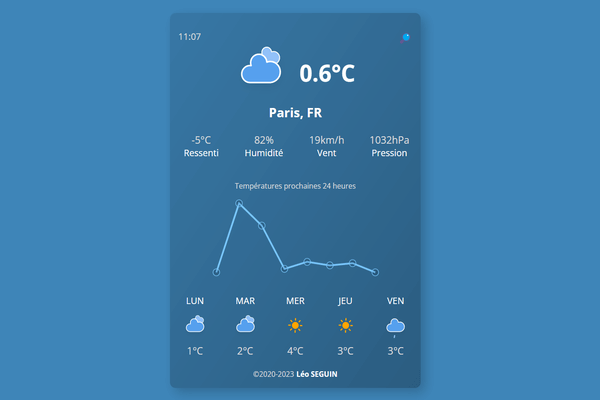
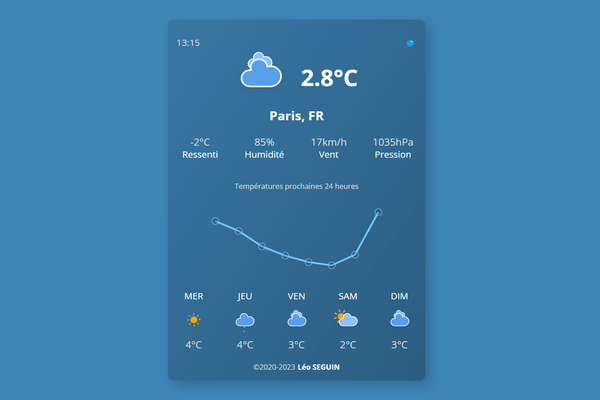
accessibility improvement

diff --git a/src/js/script.min.js b/src/js/script.min.js
@@ -1,1 +1,1 @@
-function requestApi(e){apiCurrent=`https://api.openweathermap.org/data/2.5/weather?q=${e}&units=metric&appid=${key}`,apiForecast=`https://api.openweathermap.org/data/2.5/forecast?q=${e}&units=metric&appid=${key}`,fetchData()}function onSuccess(e){let{latitude:t,longitude:s}=e.coords;apiCurrent=`https://api.openweathermap.org/data/2.5/weather?lat=${t}&lon=${s}&units=metric&appid=${key}`,apiForecast=`https://api.openweathermap.org/data/2.5/forecast?lat=${t}&lon=${s}&units=metric&appid=${key}`,fetchData()}function onError(){infoTxt.style.display="none",alert("La localisation de l'appareil n'est pas activée...")}function fetchData(){fetch(apiCurrent).then(e=>e.json()).then(e=>weatherDetailsCurrent(e)).catch(()=>{infoTxt.style.display="none",alert("Ville non reconnue, vérifiez l'orthographe et écrivez le nom complet de la ville...")})}function weatherDetailsCurrent(e){let{name:t}=e,{country:s}=e.sys,{id:i}=e.weather[0],{temp:n,feels_like:r,humidity:o,pressure:c}=e.main,{speed:a}=e.wind,l=new Date;offset=parseInt(e.timezone)/60,heure=(heureDate=new Date(l.getTime()+6e4*(offset+l.getTimezoneOffset()))).toLocaleTimeString("fr-FR").slice(0,-3),800==i?(heure.startsWith("1")||heure.startsWith("06")||heure.startsWith("07")||heure.startsWith("08")||heure.startsWith("09")?img.src="icons/sun.svg":img.src="icons/sunnight.svg",document.body.style.background="#1c95ec",metaTheme.content="#1c95ec"):i>=200&&i<=232?(img.src="icons/thunder.svg",document.body.style.background="#2c3c47",metaTheme.content="#2c3c47"):i>=600&&i<=622?(img.src="icons/snow.svg",document.body.style.background="#83939e",metaTheme.content="#83939e"):i>=701&&i<=781?(heure.startsWith("1")||heure.startsWith("06")||heure.startsWith("07")||heure.startsWith("08")||heure.startsWith("09")?img.src="icons/haze.svg":img.src="icons/hazenight.svg",document.body.style.background="#88ccfc",metaTheme.content="#88ccfc"):801==i?(heure.startsWith("1")||heure.startsWith("06")||heure.startsWith("07")||heure.startsWith("08")||heure.startsWith("09")?img.src="icons/fewclouds.svg":img.src="icons/fewcloudsnight.svg",document.body.style.background="#41adfa",metaTheme.content="#41adfa"):i>=802&&i<=804?(img.src="icons/clouds.svg",document.body.style.background="#3e85b8",metaTheme.content="#3e85b8"):i>=501&&i<=531?(img.src="icons/shower.svg",document.body.style.background="#2f5069",metaTheme.content="#2f5069"):(i>=300&&i<=321||500==i)&&(img.src="icons/rain.svg",document.body.style.background="#386e94",metaTheme.content="#386e94"),infoTxt.style.display="none",inputField.value="",wrapper.classList.add("active"),back.style.display="inline",document.querySelector(".temp span").innerText=`${n.toFixed(1)}°C`,document.querySelector(".location span").innerText=`${t}, ${s}`,document.querySelector(".feels span").innerText=`${Math.floor(r)}°C`,document.querySelector(".humidity span").innerText=`${o}%`,document.querySelector(".wind span").innerText=`${Math.round(3.6*a)}km/h`,document.querySelector(".pressure span").innerText=`${c}hPa`,document.querySelector("#heure").innerText=heure,fetch(apiForecast).then(e=>e.json()).then(e=>weatherDetailsForecast(e))}function weatherDetailsForecast(e){let t=[],s=[];for(let i=0;i<e.list.length;i++){let n=e.list[i].dt_txt.substring(11),r=e.list[i].main.temp,o=e.list[i].weather[0].id;n.indexOf("12:00:00")||(t.push(o),s.push(r))}let i=e.list[7].dt_txt,n=e.list[15].dt_txt,r=e.list[23].dt_txt,o=e.list[31].dt_txt,c=e.list[39].dt_txt;800==t[0]?img2.src="icons/sun.svg":t[0]>=200&&t[0]<=232?img2.src="icons/thunder.svg":t[0]>=600&&t[0]<=622?img2.src="icons/snow.svg":t[0]>=701&&t[0]<=781?img2.src="icons/haze.svg":801==t[0]?img2.src="icons/fewclouds.svg":t[0]>=802&&t[0]<=804?img2.src="icons/clouds.svg":t[0]>=501&&t[0]<=531?img2.src="icons/shower.svg":(t[0]>=300&&t[0]<=321||500==t[0])&&(img2.src="icons/rain.svg"),800==t[1]?img3.src="icons/sun.svg":t[1]>=200&&t[1]<=232?img3.src="icons/thunder.svg":t[1]>=600&&t[1]<=622?img3.src="icons/snow.svg":t[1]>=701&&t[1]<=781?img3.src="icons/haze.svg":801==t[1]?img3.src="icons/fewclouds.svg":t[1]>=802&&t[1]<=804?img3.src="icons/clouds.svg":t[1]>=501&&t[1]<=531?img3.src="icons/shower.svg":(t[1]>=300&&t[1]<=321||500==t[1])&&(img3.src="icons/rain.svg"),800==t[2]?img4.src="icons/sun.svg":t[2]>=200&&t[2]<=232?img4.src="icons/thunder.svg":t[2]>=600&&t[2]<=622?img4.src="icons/snow.svg":t[2]>=701&&t[2]<=781?img4.src="icons/haze.svg":801==t[2]?img4.src="icons/fewclouds.svg":t[2]>=802&&t[2]<=804?img4.src="icons/clouds.svg":t[2]>=501&&t[2]<=531?img4.src="icons/shower.svg":(t[2]>=300&&t[2]<=321||500==t[2])&&(img4.src="icons/rain.svg"),800==t[3]?img5.src="icons/sun.svg":t[3]>=200&&t[3]<=232?img5.src="icons/thunder.svg":t[3]>=600&&t[3]<=622?img5.src="icons/snow.svg":t[3]>=701&&t[3]<=781?img5.src="icons/haze.svg":801==t[3]?img5.src="icons/fewclouds.svg":t[3]>=802&&t[3]<=804?img5.src="icons/clouds.svg":t[3]>=501&&t[3]<=531?img5.src="icons/shower.svg":(t[3]>=300&&t[3]<=321||500==t[3])&&(img5.src="icons/rain.svg"),800==t[4]?img6.src="icons/sun.svg":t[4]>=200&&t[4]<=232?img6.src="icons/thunder.svg":t[4]>=600&&t[4]<=622?img6.src="icons/snow.svg":t[4]>=701&&t[4]<=781?img6.src="icons/haze.svg":801==t[4]?img6.src="icons/fewclouds.svg":t[4]>=802&&t[4]<=804?img6.src="icons/clouds.svg":t[4]>=501&&t[4]<=531?img6.src="icons/shower.svg":(t[4]>=300&&t[4]<=321||500==t[4])&&(img6.src="icons/rain.svg"),weatherPart.querySelector(".temp .numb2").innerText=Math.floor(s[0]),weatherPart.querySelector(".temp .numb3").innerText=Math.floor(s[1]),weatherPart.querySelector(".temp .numb4").innerText=Math.floor(s[2]),weatherPart.querySelector(".temp .numb5").innerText=Math.floor(s[3]),weatherPart.querySelector(".temp .numb6").innerText=Math.floor(s[4]);let a=["DIM","LUN","MAR","MER","JEU","VEN","SAM"],l=new Date(i.slice(0,-9)),m=new Date(n.slice(0,-9)),g=new Date(r.slice(0,-9)),u=new Date(o.slice(0,-9)),d=new Date(c.slice(0,-9)),h=a[l.getDay()],p=a[m.getDay()],y=a[g.getDay()],v=a[u.getDay()],f=a[d.getDay()];document.getElementById("jour2").innerText=h,document.getElementById("jour3").innerText=p,document.getElementById("jour4").innerText=y,document.getElementById("jour5").innerText=v,document.getElementById("jour6").innerText=f;let w=[e.list[0].main.temp,e.list[1].main.temp,e.list[2].main.temp,e.list[3].main.temp,e.list[4].main.temp,e.list[5].main.temp,e.list[6].main.temp,e.list[7].main.temp],b=document.getElementById("chart").getContext("2d");new Chart(b,{type:"line",data:{labels:[e.list[0].dt_txt.substring(11).slice(0,-3),e.list[1].dt_txt.substring(11).slice(0,-3),e.list[2].dt_txt.substring(11).slice(0,-3),e.list[3].dt_txt.substring(11).slice(0,-3),e.list[4].dt_txt.substring(11).slice(0,-3),e.list[5].dt_txt.substring(11).slice(0,-3),e.list[6].dt_txt.substring(11).slice(0,-3),e.list[7].dt_txt.substring(11).slice(0,-3)],datasets:[{yAxisID:"A",label:"Température",data:w,borderColor:"#7ac8ff",pointRadius:6}]},options:{plugins:{legend:{display:!1}},responsive:!0,scales:{x:{ticks:{display:!1},grid:{display:!1},border:{display:!1}},A:{type:"linear",position:"left",ticks:{display:!1},grid:{display:!1},border:{display:!1}}}}}),Chart.defaults.color="#dddddd"}"serviceWorker"in navigator&&navigator.serviceWorker.register("sw.js");const key="YOUR API KEY",wrapper=document.querySelector(".wrapper"),inputPart=document.querySelector(".input-part"),infoTxt=document.querySelector(".info-txt"),inputField=document.querySelector("input"),locationBtn=document.querySelector("#geolocalisation"),weatherPart=document.querySelector(".weather-part"),metaTheme=document.getElementById("themecolor"),img=document.getElementById("img"),img2=document.getElementById("img2"),img3=document.getElementById("img3"),img4=document.getElementById("img4"),img5=document.getElementById("img5"),img6=document.getElementById("img6"),back=document.getElementById("retour");back.style.display="none",inputField.addEventListener("keydown",e=>{"Enter"==e.key&&(inputField.value.trim()?(infoTxt.style.display="block",requestApi(inputField.value.trim())):alert("Veuillez renseigner une ville..."))}),locationBtn.addEventListener("click",()=>{navigator.geolocation&&navigator.geolocation.getCurrentPosition(onSuccess,onError),infoTxt.style.display="block"}),back.addEventListener("click",()=>{location.reload()});
+function requestApi(e){apiCurrent=`https://api.openweathermap.org/data/2.5/weather?q=${e}&units=metric&appid=${key}`,apiForecast=`https://api.openweathermap.org/data/2.5/forecast?q=${e}&units=metric&appid=${key}`,fetchData()}function onSuccess(e){let{latitude:t,longitude:s}=e.coords;apiCurrent=`https://api.openweathermap.org/data/2.5/weather?lat=${t}&lon=${s}&units=metric&appid=${key}`,apiForecast=`https://api.openweathermap.org/data/2.5/forecast?lat=${t}&lon=${s}&units=metric&appid=${key}`,fetchData()}function onError(){infoTxt.style.display="none",alert("La localisation de l'appareil n'est pas activée...")}function fetchData(){fetch(apiCurrent).then(e=>e.json()).then(e=>weatherDetailsCurrent(e)).catch(()=>{infoTxt.style.display="none",alert("Ville non reconnue, vérifiez l'orthographe et écrivez le nom complet de la ville...")})}function weatherDetailsCurrent(e){let{name:t}=e,{country:s}=e.sys,{id:i}=e.weather[0],{temp:n,feels_like:r,humidity:o,pressure:c}=e.main,{speed:a}=e.wind,l=new Date;offset=parseInt(e.timezone)/60,heure=(heureDate=new Date(l.getTime()+6e4*(offset+l.getTimezoneOffset()))).toLocaleTimeString("fr-FR").slice(0,-3),800==i?(heure.startsWith("1")||heure.startsWith("06")||heure.startsWith("07")||heure.startsWith("08")||heure.startsWith("09")?img.src="icons/sun.svg":img.src="icons/sunnight.svg",document.body.style.background="#1c95ec",metaTheme.content="#1c95ec"):i>=200&&i<=232?(img.src="icons/thunder.svg",document.body.style.background="#2c3c47",metaTheme.content="#2c3c47"):i>=600&&i<=622?(img.src="icons/snow.svg",document.body.style.background="#83939e",metaTheme.content="#83939e"):i>=701&&i<=781?(heure.startsWith("1")||heure.startsWith("06")||heure.startsWith("07")||heure.startsWith("08")||heure.startsWith("09")?img.src="icons/haze.svg":img.src="icons/hazenight.svg",document.body.style.background="#63baf7",metaTheme.content="#63baf7"):801==i?(heure.startsWith("1")||heure.startsWith("06")||heure.startsWith("07")||heure.startsWith("08")||heure.startsWith("09")?img.src="icons/fewclouds.svg":img.src="icons/fewcloudsnight.svg",document.body.style.background="#41adfa",metaTheme.content="#41adfa"):i>=802&&i<=804?(img.src="icons/clouds.svg",document.body.style.background="#3e85b8",metaTheme.content="#3e85b8"):i>=501&&i<=531?(img.src="icons/shower.svg",document.body.style.background="#2f5069",metaTheme.content="#2f5069"):(i>=300&&i<=321||500==i)&&(img.src="icons/rain.svg",document.body.style.background="#386e94",metaTheme.content="#386e94"),infoTxt.style.display="none",inputField.value="",wrapper.classList.add("active"),back.style.display="inline",document.querySelector(".temp span").innerText=`${n.toFixed(1)}°C`,document.querySelector(".location span").innerText=`${t}, ${s}`,document.querySelector(".feels span").innerText=`${Math.floor(r)}°C`,document.querySelector(".humidity span").innerText=`${o}%`,document.querySelector(".wind span").innerText=`${Math.round(3.6*a)}km/h`,document.querySelector(".pressure span").innerText=`${c}hPa`,document.querySelector("#heure").innerText=heure,fetch(apiForecast).then(e=>e.json()).then(e=>weatherDetailsForecast(e))}function weatherDetailsForecast(e){let t=[],s=[];for(let i=0;i<e.list.length;i++){let n=e.list[i].dt_txt.substring(11),r=e.list[i].main.temp,o=e.list[i].weather[0].id;n.indexOf("12:00:00")||(t.push(o),s.push(r))}let i=e.list[7].dt_txt,n=e.list[15].dt_txt,r=e.list[23].dt_txt,o=e.list[31].dt_txt,c=e.list[39].dt_txt;800==t[0]?img2.src="icons/sun.svg":t[0]>=200&&t[0]<=232?img2.src="icons/thunder.svg":t[0]>=600&&t[0]<=622?img2.src="icons/snow.svg":t[0]>=701&&t[0]<=781?img2.src="icons/haze.svg":801==t[0]?img2.src="icons/fewclouds.svg":t[0]>=802&&t[0]<=804?img2.src="icons/clouds.svg":t[0]>=501&&t[0]<=531?img2.src="icons/shower.svg":(t[0]>=300&&t[0]<=321||500==t[0])&&(img2.src="icons/rain.svg"),800==t[1]?img3.src="icons/sun.svg":t[1]>=200&&t[1]<=232?img3.src="icons/thunder.svg":t[1]>=600&&t[1]<=622?img3.src="icons/snow.svg":t[1]>=701&&t[1]<=781?img3.src="icons/haze.svg":801==t[1]?img3.src="icons/fewclouds.svg":t[1]>=802&&t[1]<=804?img3.src="icons/clouds.svg":t[1]>=501&&t[1]<=531?img3.src="icons/shower.svg":(t[1]>=300&&t[1]<=321||500==t[1])&&(img3.src="icons/rain.svg"),800==t[2]?img4.src="icons/sun.svg":t[2]>=200&&t[2]<=232?img4.src="icons/thunder.svg":t[2]>=600&&t[2]<=622?img4.src="icons/snow.svg":t[2]>=701&&t[2]<=781?img4.src="icons/haze.svg":801==t[2]?img4.src="icons/fewclouds.svg":t[2]>=802&&t[2]<=804?img4.src="icons/clouds.svg":t[2]>=501&&t[2]<=531?img4.src="icons/shower.svg":(t[2]>=300&&t[2]<=321||500==t[2])&&(img4.src="icons/rain.svg"),800==t[3]?img5.src="icons/sun.svg":t[3]>=200&&t[3]<=232?img5.src="icons/thunder.svg":t[3]>=600&&t[3]<=622?img5.src="icons/snow.svg":t[3]>=701&&t[3]<=781?img5.src="icons/haze.svg":801==t[3]?img5.src="icons/fewclouds.svg":t[3]>=802&&t[3]<=804?img5.src="icons/clouds.svg":t[3]>=501&&t[3]<=531?img5.src="icons/shower.svg":(t[3]>=300&&t[3]<=321||500==t[3])&&(img5.src="icons/rain.svg"),800==t[4]?img6.src="icons/sun.svg":t[4]>=200&&t[4]<=232?img6.src="icons/thunder.svg":t[4]>=600&&t[4]<=622?img6.src="icons/snow.svg":t[4]>=701&&t[4]<=781?img6.src="icons/haze.svg":801==t[4]?img6.src="icons/fewclouds.svg":t[4]>=802&&t[4]<=804?img6.src="icons/clouds.svg":t[4]>=501&&t[4]<=531?img6.src="icons/shower.svg":(t[4]>=300&&t[4]<=321||500==t[4])&&(img6.src="icons/rain.svg"),weatherPart.querySelector(".temp .numb2").innerText=Math.floor(s[0]),weatherPart.querySelector(".temp .numb3").innerText=Math.floor(s[1]),weatherPart.querySelector(".temp .numb4").innerText=Math.floor(s[2]),weatherPart.querySelector(".temp .numb5").innerText=Math.floor(s[3]),weatherPart.querySelector(".temp .numb6").innerText=Math.floor(s[4]);let a=["DIM","LUN","MAR","MER","JEU","VEN","SAM"],l=new Date(i.slice(0,-9)),m=new Date(n.slice(0,-9)),g=new Date(r.slice(0,-9)),u=new Date(o.slice(0,-9)),d=new Date(c.slice(0,-9)),h=a[l.getDay()],p=a[m.getDay()],y=a[g.getDay()],v=a[u.getDay()],f=a[d.getDay()];document.getElementById("jour2").innerText=h,document.getElementById("jour3").innerText=p,document.getElementById("jour4").innerText=y,document.getElementById("jour5").innerText=v,document.getElementById("jour6").innerText=f;let w=[e.list[0].main.temp,e.list[1].main.temp,e.list[2].main.temp,e.list[3].main.temp,e.list[4].main.temp,e.list[5].main.temp,e.list[6].main.temp,e.list[7].main.temp],b=document.getElementById("chart").getContext("2d");new Chart(b,{type:"line",data:{labels:[e.list[0].dt_txt.substring(11).slice(0,-3),e.list[1].dt_txt.substring(11).slice(0,-3),e.list[2].dt_txt.substring(11).slice(0,-3),e.list[3].dt_txt.substring(11).slice(0,-3),e.list[4].dt_txt.substring(11).slice(0,-3),e.list[5].dt_txt.substring(11).slice(0,-3),e.list[6].dt_txt.substring(11).slice(0,-3),e.list[7].dt_txt.substring(11).slice(0,-3)],datasets:[{yAxisID:"A",label:"Température",data:w,borderColor:"#7ac8ff",pointRadius:6}]},options:{plugins:{legend:{display:!1}},responsive:!0,scales:{x:{ticks:{display:!1},grid:{display:!1},border:{display:!1}},A:{type:"linear",position:"left",ticks:{display:!1},grid:{display:!1},border:{display:!1}}}}}),Chart.defaults.color="#dddddd"}"serviceWorker"in navigator&&navigator.serviceWorker.register("sw.js");const key="4f2aefee83b0c51e519d5251885f124f",wrapper=document.querySelector(".wrapper"),inputPart=document.querySelector(".input-part"),infoTxt=document.querySelector(".info-txt"),inputField=document.querySelector("input"),locationBtn=document.querySelector("#geolocalisation"),weatherPart=document.querySelector(".weather-part"),metaTheme=document.getElementById("themecolor"),img=document.getElementById("img"),img2=document.getElementById("img2"),img3=document.getElementById("img3"),img4=document.getElementById("img4"),img5=document.getElementById("img5"),img6=document.getElementById("img6"),back=document.getElementById("retour");back.style.display="none",inputField.addEventListener("keydown",e=>{"Enter"==e.key&&(inputField.value.trim()?(infoTxt.style.display="block",requestApi(inputField.value.trim())):alert("Veuillez renseigner une ville..."))}),locationBtn.addEventListener("click",()=>{navigator.geolocation&&navigator.geolocation.getCurrentPosition(onSuccess,onError),infoTxt.style.display="block"});

diff --git a/src/style.min.css b/src/style.min.css
@@ -1,1 +1,1 @@
-.info-txt,.wrapper.active .input-part{display:none}.info-txt,.wrapper{border-radius:10px}.input-part button,.input-part input,html{color:#fff}::placeholder{color:#ddd}@font-face{font-family:OpenSans;font-style:normal;font-weight:400;font-display:swap;src:url(../../assets/fonts/OpenSans.woff2) format('woff2')}@font-face{font-family:OpenSans;font-style:normal;font-weight:700;font-display:swap;src:url(../../assets/fonts/OpenSans-700.woff2) format('woff2')}@font-face{font-family:OpenSans;font-style:italic;font-weight:400;font-display:swap;src:url(../../assets/fonts/OpenSans-italic.woff2) format('woff2')}html{-webkit-tap-highlight-color:transparent;-webkit-user-select:none;user-select:none}*{font-family:OpenSans;box-sizing:border-box}body{background:#1c95ec;display:flex;align-items:center;justify-content:center}.wrapper{margin:30px auto 10px;padding:15px 0;width:450px;background:linear-gradient(to top left,rgba(0,0,0,.3),rgba(0,0,0,.1));box-shadow:8px 8px 20px rgba(0,0,0,.2)}.separator{height:1px;background:#ddd;width:80%;margin:35px auto}.wrapper header{font-size:1.5rem;color:#fff;padding:15px;text-align:right}.column,.info-txt,.input-part input{text-align:center}.wrapper header #heure{color:#ddd;float:left;font-size:1rem}.wrapper header #retour{cursor:pointer;font-size:1.2rem;color:#0070c1}.wrapper.active header{font-size:0}.input-part{margin:5px 30px 30px}.info-txt{font-size:1rem;padding:10px;margin-bottom:15px;color:#fff;height:55px;line-height:38px;display:none;background:rgba(31,169,255,.5)}.column,.copyright,.location,.temp,.wrapper.active .weather-part{display:flex}.input-part input,button{width:100%;height:55px;border:none;font-size:1.1rem;border-radius:10px}.input-part input{padding:0 15px;border:2px solid #ddd;background:0 0;color:#fff}.input-part input:focus{outline:3px solid rgba(0,0,0,.3)}.input-part button{color:#fff;cursor:pointer;background:rgba(0,0,0,.3);transition:.2s}.input-part button:hover{background:rgba(0,0,0,.2)}.wrapper .weather-part{display:none;margin:5px 0 0;align-items:center;justify-content:center;flex-direction:column}.titreGraph{color:#ddd;font-size:.8rem}#img{margin-top:-50px;margin-left:-25px;width:140px;vertical-align:middle}.main-info .temp{font-size:2.5rem;font-weight:700}.location{font-size:1.4rem;font-weight:700;display:flex;align-items:center;justify-content:center;margin:-10px 0 20px}.bottom-details{display:flex;width:100%}.bottom-details .temp{font-weight:400}.graphique{margin:25px auto;text-align:center}#chart{position:relative;z-index:1}.column{width:100%;align-items:center;justify-content:center}.column img{margin:0 0 -10px}.details .temp,.feels span,.humidity span,.pressure span,.wind span{font-size:1.1rem;margin-top:5px;align-items:center;justify-content:center;color:#ddd}.details p{color:#fff;font-size:1rem;margin:0 auto}#jour2,#jour3,#jour4,#jour5,#jour6{margin-top:-10px}.copyright{margin-top:20px;color:#ddd;align-items:center;justify-content:center;font-size:.8rem}.copyright a{margin-left:4px;color:#fff;text-decoration:none;font-size:.8rem;font-weight:700}
+.info-txt,.wrapper.active .input-part{display:none}.info-txt,.wrapper{border-radius:10px}.input-part button,.input-part input,html{color:#fff}::placeholder{color:#ddd}@font-face{font-family:OpenSans;font-style:normal;font-weight:400;font-display:swap;src:url(../../assets/fonts/OpenSans.woff2) format('woff2')}@font-face{font-family:OpenSans;font-style:normal;font-weight:700;font-display:swap;src:url(../../assets/fonts/OpenSans-700.woff2) format('woff2')}@font-face{font-family:OpenSans;font-style:italic;font-weight:400;font-display:swap;src:url(../../assets/fonts/OpenSans-italic.woff2) format('woff2')}html{-webkit-tap-highlight-color:transparent;-webkit-user-select:none;user-select:none}*{font-family:OpenSans;box-sizing:border-box}a{text-decoration:none}body{background:#1c95ec;margin:0 1rem;min-height:100vh;display:flex;align-items:center;justify-content:center}.wrapper{margin:1rem 0;padding:15px 0;width:450px;background:linear-gradient(to top left,rgba(0,0,0,.3),rgba(0,0,0,.1));box-shadow:8px 8px 20px rgba(0,0,0,.2)}.separator{height:1px;background:#ddd;width:80%;margin:35px auto}.wrapper header{font-size:1.5rem;color:#fff;padding:15px;text-align:right}.column,.info-txt,.input-part input{text-align:center}.wrapper header #heure{color:#ddd;float:left;font-size:1rem}.wrapper header #retour{cursor:pointer;font-size:1.2rem;color:#0070c1}.wrapper.active header{font-size:0}.input-part{margin:5px 30px 30px}.info-txt{font-size:1rem;padding:10px;margin-bottom:15px;color:#fff;height:55px;line-height:38px;display:none;background:rgba(31,169,255,.5)}.column,.copyright,.location,.temp,.wrapper.active .weather-part{display:flex}.input-part input,button{width:100%;height:55px;border:none;font-size:1.1rem;border-radius:10px}.input-part input{padding:0 15px;border:2px solid #ddd;background:0 0;color:#fff}a:focus,button:focus,input:focus{outline:3px solid rgba(0,0,0,.2)}.input-part button{color:#fff;cursor:pointer;background:rgba(0,0,0,.3);transition:.2s}.input-part button:hover{background:rgba(0,0,0,.2)}.wrapper .weather-part{display:none;margin:5px 0 0;align-items:center;justify-content:center;flex-direction:column}.titreGraph{color:#ddd;font-size:.8rem}#img{margin-top:-50px;margin-left:-25px;width:140px;vertical-align:middle}.main-info .temp{font-size:2.5rem;font-weight:700}.location{font-size:1.4rem;font-weight:700;display:flex;align-items:center;justify-content:center;margin:-10px 0 20px}.bottom-details{display:flex;width:100%}.bottom-details .temp{font-weight:400}.graphique{margin:25px auto;text-align:center}#chart{position:relative;z-index:1}.column{width:100%;align-items:center;justify-content:center}.column img{margin:0 0 -10px}.details .temp,.feels span,.humidity span,.pressure span,.wind span{font-size:1.1rem;margin-top:5px;align-items:center;justify-content:center;color:#ddd}.details p{color:#fff;font-size:1rem;margin:0 auto}#jour2,#jour3,#jour4,#jour5,#jour6{margin-top:-10px}.copyright{margin-top:20px;color:#ddd;align-items:center;justify-content:center;font-size:.8rem}.copyright a{margin-left:4px;color:#fff;text-decoration:none;font-size:.8rem;font-weight:700}

diff --git a/src/js/script.js b/src/js/script.js
@@ -1,5 +1,5 @@
 "serviceWorker" in navigator && navigator.serviceWorker.register("sw.js");
-const key = "YOUR API KEY"
+const key = "4f2aefee83b0c51e519d5251885f124f"
   , wrapper = document.querySelector(".wrapper")
   , inputPart = document.querySelector(".input-part")
   , infoTxt = document.querySelector(".info-txt")
@@ -52,8 +52,8 @@ function weatherDetailsCurrent(e) {
     metaTheme.content = "#2c3c47") : i >= 600 && i <= 622 ? (img.src = "icons/snow.svg",
     document.body.style.background = "#83939e",
     metaTheme.content = "#83939e") : i >= 701 && i <= 781 ? (heure.startsWith("1") || heure.startsWith("06") || heure.startsWith("07") || heure.startsWith("08") || heure.startsWith("09") ? img.src = "icons/haze.svg" : img.src = "icons/hazenight.svg",
-    document.body.style.background = "#88ccfc",
-    metaTheme.content = "#88ccfc") : 801 == i ? (heure.startsWith("1") || heure.startsWith("06") || heure.startsWith("07") || heure.startsWith("08") || heure.startsWith("09") ? img.src = "icons/fewclouds.svg" : img.src = "icons/fewcloudsnight.svg",
+    document.body.style.background = "#63baf7",
+    metaTheme.content = "#63baf7") : 801 == i ? (heure.startsWith("1") || heure.startsWith("06") || heure.startsWith("07") || heure.startsWith("08") || heure.startsWith("09") ? img.src = "icons/fewclouds.svg" : img.src = "icons/fewcloudsnight.svg",
     document.body.style.background = "#41adfa",
     metaTheme.content = "#41adfa") : i >= 802 && i <= 804 ? (img.src = "icons/clouds.svg",
     document.body.style.background = "#3e85b8",
@@ -182,9 +182,4 @@ inputField.addEventListener("keydown", e=>{
 locationBtn.addEventListener("click", ()=>{
     navigator.geolocation && navigator.geolocation.getCurrentPosition(onSuccess, onError),
     infoTxt.style.display = "block"
-}
-),
-back.addEventListener("click", ()=>{
-    location.reload()
-}
-);
+});

diff --git a/src/style.css b/src/style.css
@@ -51,15 +51,21 @@ html {
     box-sizing: border-box
 }
 
+a {
+    text-decoration: none;
+}
+
 body {
     background: #1c95ec;
+    margin: 0 1rem;
+    min-height: 100vh;
     display: flex;
     align-items: center;
     justify-content: center
 }
 
 .wrapper {
-    margin: 30px auto 10px;
+    margin: 1rem 0;
     padding: 15px 0;
     width: 450px;
     background: linear-gradient(to top left, rgba(0,0,0,.3), rgba(0,0,0,.1));
@@ -141,8 +147,8 @@ button {
     color: #fff;
 }
 
-.input-part input:focus {
-    outline: 3px solid rgba(0, 0, 0, .3);
+input:focus, button:focus, a:focus {
+    outline: 3px solid rgba(0, 0, 0, .2);
 }
 
 .input-part button {

diff --git a/src/index.php b/src/index.php
@@ -18,7 +18,7 @@
 	<div class="wrapper">
 		<header>
 			<span id="heure"></span>
-			<span id="retour">🔎</span>Météo
+			<a href="./" id="retour" aria-label="Retour">🔎</a>Météo
 		</header>
 		<div class="input-part">
 			<p class="info-txt">Chargement...</p>
@@ -120,7 +120,7 @@
 			</div>
 		</div>
 		<span class="copyright">&copy;2020-<?php echo date('Y'); ?>
-			Léo SEGUIN
+			<a href="https://leoseguin.fr/" target="_blank" rel="noreferrer">Léo SEGUIN</a>
 		</span>
 	</div>
 	<script src="js/script.min.js"></script>
